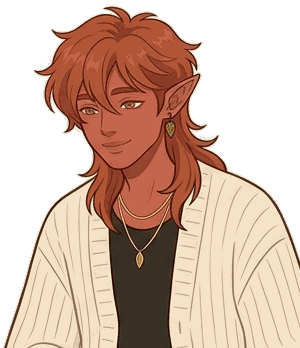
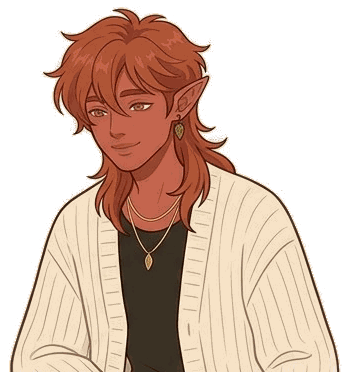
Substitui os ícones da app e as poses do mascote pela arte oficial nomeada
O ficheiro Images/kaipora_icon.jpeg (recortado da margem branca de
apresentação, cantos brancos preenchidos com o fundo escuro real, ~32,25,17
≈ #1c1712 do tema) substitui o antigo "K" gradiente roxo/magenta em todos
os tamanhos (favicon, 180, 192, 512, maskable) e no favicon.svg (agora um
PNG embutido em vez do mark antigo). O maskable-512 ganha 28% de margem à
volta do desenho para nunca cortar cabelo/ombros sob uma máscara circular
mais agressiva.

As 6 poses batizadas em Images/kaipora_pose_*.{jpg,jpeg} (lembrete,
celebração, conforto, idle, respiração, cumprimento) substituem os
recortes provisórios feitos a partir de capturas de ecrã — são a arte
oficial em resolução mais alta, com o mesmo tratamento (fundo removido,
recorte ao busto, paleta de 128 cores). "Cumprimento" (aceno de saudação)
é novo — fica como pose reserva, ainda sem momento atribuído. Uma mão
solta de outra pose que invadia a margem esquerda de "lembrete" foi
pintada com a cor de fundo antes do recorte.

Claude-Session: https://claude.ai/code/session_01VZFwsSABK6MQhMMTpJV82i

Changed region(s): [[0.0, 0.0, 1.0, 1.0]]

diff --git a/src/data/mascot.ts b/src/data/mascot.ts
@@ -17,8 +17,8 @@
  * each moment triggers) — cropped bust-level portraits from the approved
  * multi-pose reference art, background removed (transparent PNG) so each
  * appearance shows just the drawing's own outline, never boxed or
- * circle-masked. `neutral` isn't wired to any moment yet; kept as a
- * spare for future use.
+ * circle-masked. `neutral` and `greeting` aren't wired to any moment yet;
+ * kept as spares for future use.
  */
 export const MASCOT_IMAGES = {
   /** Contextual same-day nudge (água/treino ainda por fazer). */
@@ -29,7 +29,9 @@ export const MASCOT_IMAGES = {
   comeBack: 'mascot/kaipora-kneeling.png',
   /** Exercício de respiração 4-4-4. */
   breathe: 'mascot/kaipora-breathing.png',
-  neutral: 'mascot/kaipora-neutral.png'
+  neutral: 'mascot/kaipora-neutral.png',
+  /** Aceno de saudação — ainda sem momento atribuído. */
+  greeting: 'mascot/kaipora-greeting.png'
 };
 
 export const MASCOT_LINES = {
